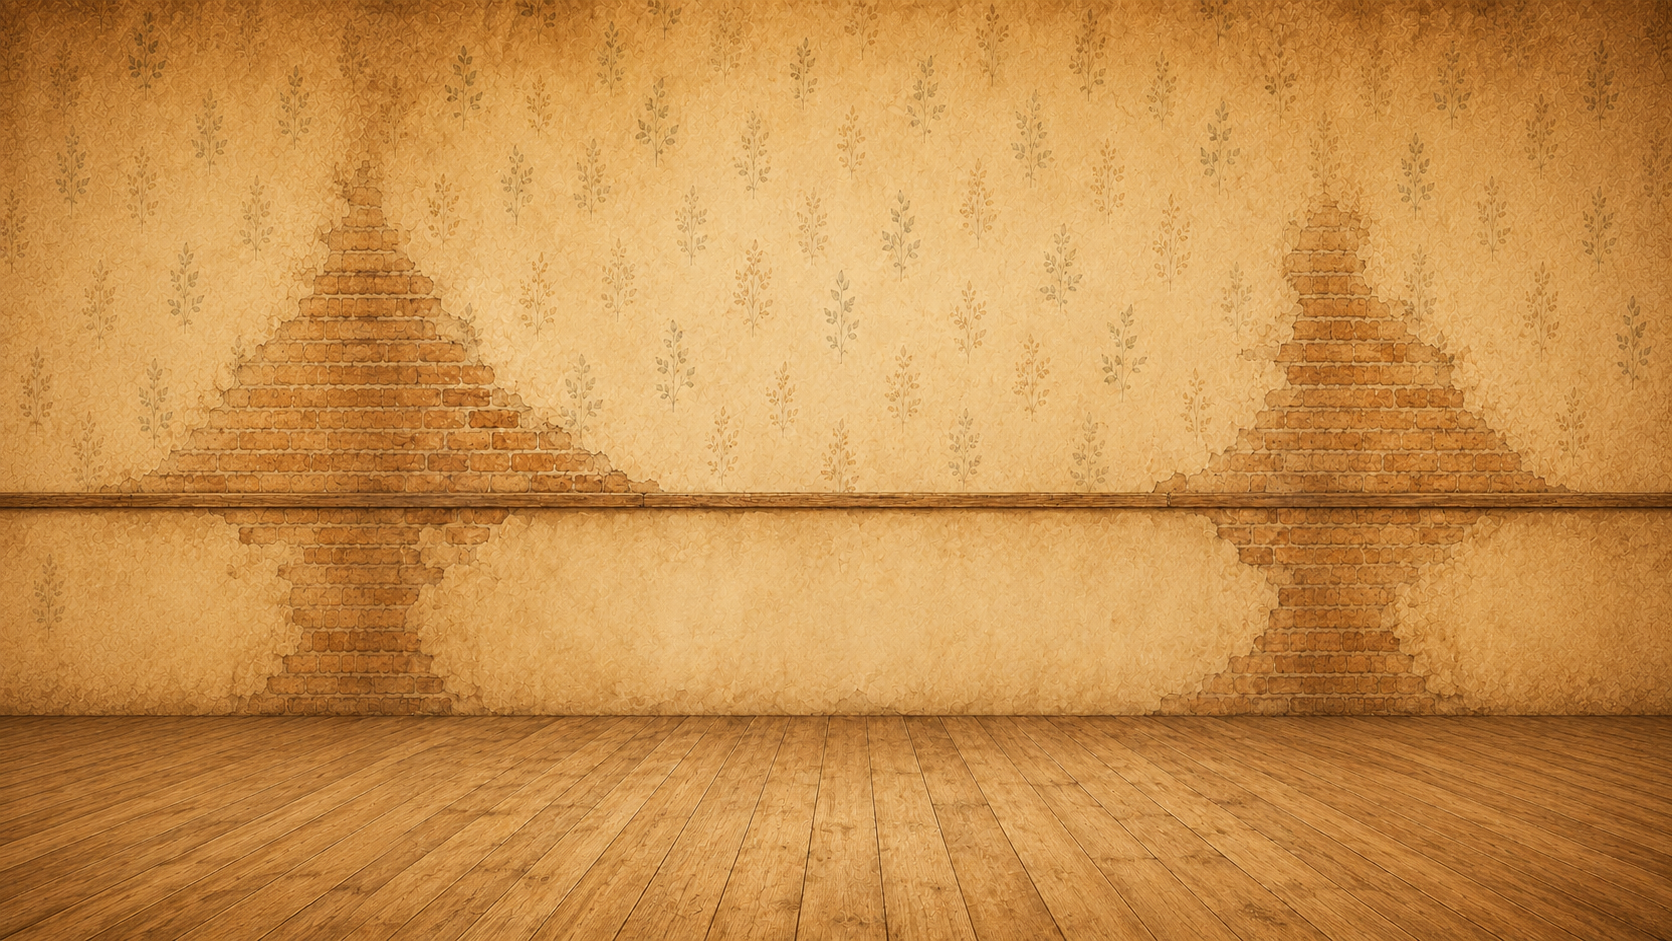
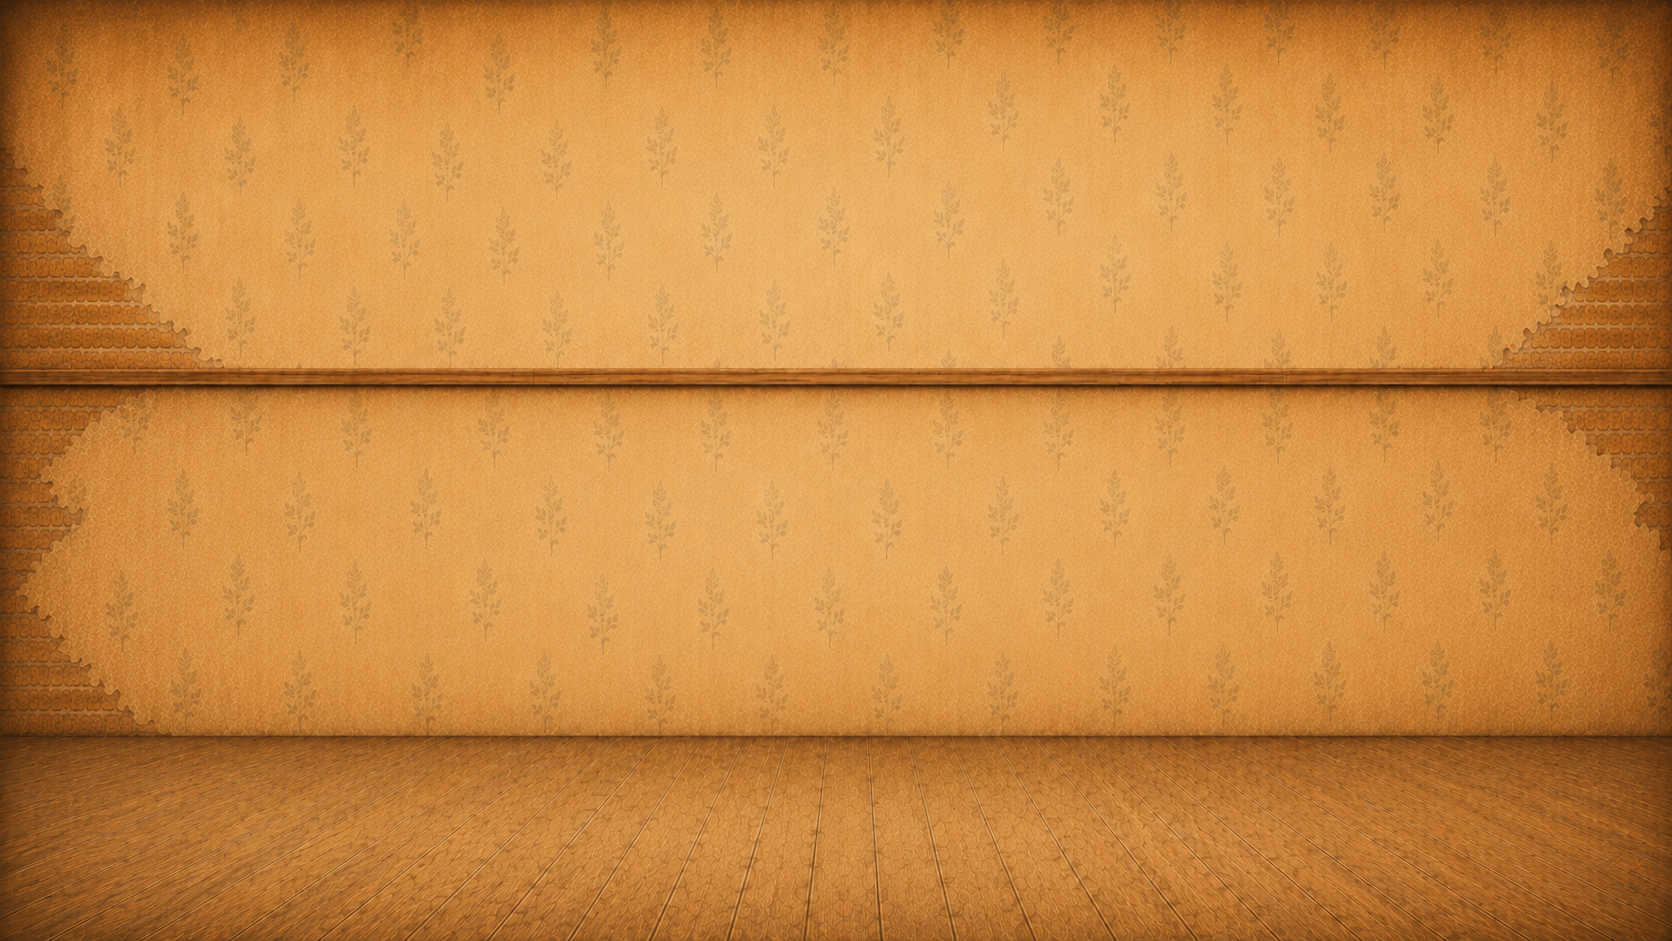
Save current Timeline responsive checkpoint

diff --git a/src/pages/Timeline.jsx b/src/pages/Timeline.jsx
@@ -127,8 +127,8 @@ const RESPONSIVE_LAYOUT = {
   */
 
   bookshelf: {
-    left: "21.88%",
-    top: "18.52%",
+    left: "31.88%",
+    top: "14.52%",
   },
 
   /*
@@ -138,10 +138,10 @@ const RESPONSIVE_LAYOUT = {
   */
 
   chapter: {
-    left: "13.54%",
-    top: "52.78%",
+    left: "17.54%",
+    top: "41.78%",
     width:
-      "min(72.92vw, 1400px)",
+      "min(100.92vw, 1640px)",
   },
 
   /*
@@ -164,7 +164,7 @@ const RESPONSIVE_LAYOUT = {
   */
 
   lampRight: {
-    right: "3.65%",
+    right: "5.65%",
     top: "5.09%",
     width:
       "clamp(90px, 7.81vw, 150px)",
@@ -190,10 +190,10 @@ const RESPONSIVE_LAYOUT = {
   */
 
   teddy: {
-    right: "3.39%",
-    top: "68.06%",
+    right: "6.39%",
+    top: "65.06%",
     width:
-      "clamp(90px, 7.81vw, 150px)",
+      "clamp(130px, 12.81vw, 500px)",
   },
 
   /*
@@ -205,7 +205,7 @@ const RESPONSIVE_LAYOUT = {
   carpet: {
     top: "78.24%",
     width:
-      "min(34.11vw, 655px)",
+      "min(39.11vw, 955px)",
   },
 
   /*
@@ -215,10 +215,10 @@ const RESPONSIVE_LAYOUT = {
   */
 
   unicorn: {
-    right: "15.62%",
-    top: "79.17%",
+    right: "25.62%",
+    top: "75.17%",
     width:
-      "min(8.59vw, 165px)",
+      "min(11.59vw, 365px)",
   },
 
   /*
@@ -228,8 +228,8 @@ const RESPONSIVE_LAYOUT = {
   */
 
   alphabetRight: {
-    right: "2.08%",
-    top: "80.09%",
+    right: "38.08%",
+    top: "84.09%",
     width:
       "min(9.38vw, 180px)",
   },
@@ -254,8 +254,8 @@ const RESPONSIVE_LAYOUT = {
   */
 
   football: {
-    right: "1.04%",
-    top: "85.65%",
+    right: "75.04%",
+    top: "78.65%",
     width:
       "min(6.25vw, 120px)",
   },
@@ -267,8 +267,8 @@ const RESPONSIVE_LAYOUT = {
   */
 
   train: {
-    right: "0.26%",
-    top: "73.15%",
+    right: "73.26%",
+    top: "87.15%",
     width:
       "min(7.81vw, 150px)",
   },
@@ -280,8 +280,8 @@ const RESPONSIVE_LAYOUT = {
   */
 
   cars: {
-    left: "3.65%",
-    top: "78.70%",
+    left: "75.65%",
+    top: "84.70%",
     width:
       "min(14.84vw, 285px)",
   },
@@ -346,6 +346,32 @@ export default function Timeline() {
       );
     };
   }, []);
+  const [viewportHeight, setViewportHeight] =
+  useState(() =>
+    typeof window !== "undefined"
+      ? window.innerHeight
+      : 1080
+  );
+
+useEffect(() => {
+  const updateViewportHeight = () => {
+    setViewportHeight(window.innerHeight);
+  };
+
+  updateViewportHeight();
+
+  window.addEventListener(
+    "resize",
+    updateViewportHeight
+  );
+
+  return () => {
+    window.removeEventListener(
+      "resize",
+      updateViewportHeight
+    );
+  };
+}, []);
 
   /*
   =====================================================
@@ -362,10 +388,25 @@ export default function Timeline() {
   =====================================================
   */
 
-  const bookshelfScale = Math.min(
-    viewportWidth / 1920,
-    1
-  );
+  const BOOKSHELF_SIZE = 0.75;
+
+const bookshelfScale =
+  Math.min(viewportWidth / 1920, 1) * BOOKSHELF_SIZE;
+  const chapterScale = Math.min(
+  Math.max(
+    0.75 +
+      ((viewportHeight - 700) / 380) *
+        0.15,
+    0.75
+  ),
+  0.90
+);
+const chapterTop =
+  41.78 -
+  Math.max(
+    0,
+    (1080 - viewportHeight) / 380
+  ) * 9;
 
   /*
   =====================================================
@@ -584,6 +625,7 @@ export default function Timeline() {
           z-20
         "
         style={{
+          left: "15%",
           top:
             RESPONSIVE_LAYOUT
               .header
@@ -684,15 +726,16 @@ export default function Timeline() {
               .chapter
               .left,
 
-          top:
-            RESPONSIVE_LAYOUT
-              .chapter
-              .top,
+           top: `${chapterTop}%`,
+
 
           width:
             RESPONSIVE_LAYOUT
               .chapter
               .width,
+
+            transform: `scale(${chapterScale})`,
+            transformOrigin: "top left",   
         }}
       >
         <ChapterSection

diff --git a/src/components/timeline/JourneyHeader.jsx b/src/components/timeline/JourneyHeader.jsx
@@ -33,7 +33,7 @@ export default function JourneyHeader() {
       {/* MAIN TITLE */}
       <h1
         className="
-          text-[#5A4030]
+          text-[#4A2E22]
           text-6xl
           md:text-7xl
           font-bold
@@ -52,11 +52,16 @@ export default function JourneyHeader() {
       <p
         className="
           mt-1
-          text-[#E8D3A8]
-          text-base
+          w-[45vw]
+          max-w-[650px]
+          text-[#4A2E22]
+          text-lg
         "
       >
-        Every stage, every smile, every memory.
+        Every little moment of your journey is tucked away in these pages — every giggle, every tear, every tiny wonder, and every beautiful thing you do.
+For you are our greatest blessing, our sweetest story, and the most precious chapter of our lives.
+
+
       </p>
 
     </div>

diff --git a/src/components/timeline/ChapterSection.jsx b/src/components/timeline/ChapterSection.jsx
@@ -121,7 +121,7 @@ export default function ChapterSection({
 
         width: "1400px",
 
-        height: "505px",
+        height: "clamp(400px, 46.76vh, 505px)",
 
         padding: "0px 50px",
 
